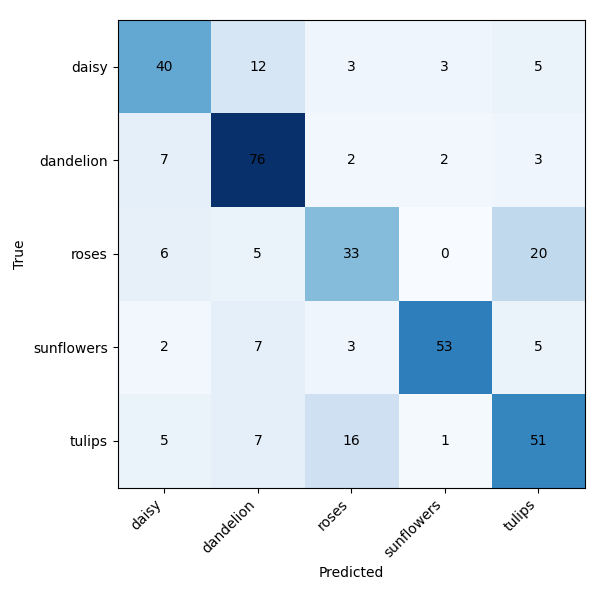
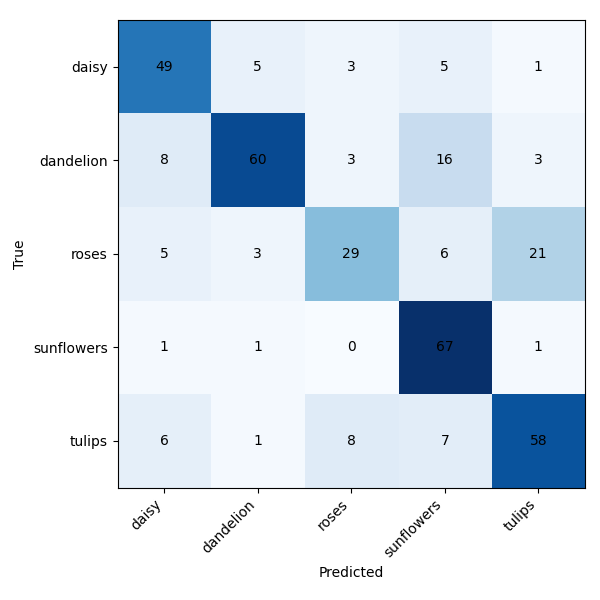
Model/dataset analysis

diff --git a/src/train.py b/src/train.py
@@ -11,7 +11,7 @@ IMG_SIZE: Tuple[int, int] = (180, 180)
 BATCH_SIZE = 32
 TRAIN_DATA_DIR = "data/flower_photos"  # Full training dataset
 TEST_DATA_DIR = "data/flower_photos_test"  # Optional held-put test set
-EPOCHS = 40
+EPOCHS = 50
 
 
 # -----------------------------------------------------------------------
@@ -56,6 +56,8 @@ augmentation = keras.Sequential(
         layers.RandomFlip("horizontal"),
         layers.RandomRotation(0.2),
         layers.RandomZoom(0.2),
+        layers.RandomContrast(0.2),
+        layers.RandomTranslation(height_factor=0.1, width_factor=0.1),
     ]
 )
 
@@ -65,28 +67,29 @@ augmentation = keras.Sequential(
 # -----------------------------------------------------------------------
 model = keras.Sequential(
     [
-        layers.Rescaling(
-            1.0 / 255, input_shape=IMG_SIZE + (3,)
-        ),  # Normalize pixel values to [0, 1]
-        layers.Conv2D(32, 3, activation="relu"),  # Learn patterns/features from images
-        layers.MaxPooling2D(),  # Reduces image size, keeps most important info
-        layers.Conv2D(64, 3, activation="relu"),
+        layers.Rescaling(1.0 / 255, input_shape=IMG_SIZE + (3,)),
+        augmentation,
+        layers.Conv2D(32, 3, padding="same", activation="relu"),
+        layers.BatchNormalization(),
         layers.MaxPooling2D(),
-        layers.Conv2D(128, 3, activation="relu"),
+        layers.Conv2D(64, 3, padding="same", activation="relu"),
+        layers.BatchNormalization(),
         layers.MaxPooling2D(),
-        layers.Flatten(),  # Converts 3D feature to 1D vector
-        layers.Dropout(0.3),
-        layers.Dense(256, activation="relu"),  # Learns higher-level features
-        layers.Dense(
-            num_classes, activation="linear"
-        ),  # Outputs probabilities for each class
+        layers.Conv2D(128, 3, padding="same", activation="relu"),
+        layers.BatchNormalization(),
+        layers.MaxPooling2D(),
+        layers.Flatten(),
+        layers.Dropout(0.5),
+        layers.Dense(256, activation="relu"),
+        layers.Dropout(0.5),
+        layers.Dense(num_classes, activation="linear"),
     ]
 )
 
-# lr = 1e-4
-# optimizer = keras.optimizers.Adam(learning_rate=lr)
+lr = 1e-4
+optimizer = keras.optimizers.Adam(learning_rate=lr)
 model.compile(
-    optimizer="Adam",
+    optimizer=optimizer,
     loss=keras.losses.SparseCategoricalCrossentropy(from_logits=True),
     metrics=["accuracy"],
 )
@@ -98,7 +101,7 @@ stop_early = keras.callbacks.EarlyStopping(monitor="val_loss", patience=10)
 history = model.fit(
     train_ds,
     validation_data=val_ds,
-    epochs=50,
+    epochs=EPOCHS,
     callbacks=[stop_early],
 )
 

diff --git a/analysis/error_analysis.py b/analysis/error_analysis.py
@@ -1,0 +1,55 @@
+import os
+import numpy as np
+import tensorflow as tf
+import matplotlib.pyplot as plt
+from sklearn.metrics import confusion_matrix, classification_report
+
+IMG_SIZE = (180, 180)
+BATCH_SIZE = 32
+MODEL_PATH = "src/models/model.keras"
+CLASS_PATH = "src/models/class_names.txt"
+TEST_DATA_DIR = "data/flower_photos_test"
+
+assert os.path.exists(MODEL_PATH), "Trained model not found"
+assert os.path.exists(CLASS_PATH), "class_names.txt not found"
+assert os.path.exists(TEST_DATA_DIR), "Test data directory not found"
+
+model = tf.keras.models.load_model(MODEL_PATH)
+with open(CLASS_PATH) as f:
+    class_names = [line.strip() for line in f]
+
+# load test set
+test_ds = tf.keras.utils.image_dataset_from_directory(
+    TEST_DATA_DIR, image_size=IMG_SIZE, batch_size=BATCH_SIZE, shuffle=False
+)
+
+# predictions
+all_images = []
+y_true = []
+y_pred = []
+for batch_images, batch_labels in test_ds:
+    preds = model.predict(batch_images)
+    probs = tf.nn.softmax(preds, axis=1)
+    all_images.extend(batch_images)
+    y_true.extend(batch_labels.numpy())
+    y_pred.extend(tf.argmax(probs, axis=1).numpy())
+
+y_true = np.array(y_true)
+y_pred = np.array(y_pred)
+
+cm = confusion_matrix(y_true, y_pred)
+report = classification_report(y_true, y_pred, target_names=class_names, digits=4)
+print("Confusion matrix:\n", cm)
+print("\nClassification report:\n", report)
+
+# Save misclassified image paths for manual inspection
+mis_idx = np.where(y_true != y_pred)[0]
+mis_dir = "misclassified_examples"
+os.makedirs(mis_dir, exist_ok=True)
+for idx in mis_idx:
+    img = tf.keras.utils.array_to_img(all_images[idx])
+    true_label = class_names[y_true[idx]]
+    pred_label = class_names[y_pred[idx]]
+    out_path = os.path.join(mis_dir, f"{idx}_{true_label}_as_{pred_label}.png")
+    img.save(out_path)
+print(f"Saved {len(mis_idx)} misclassified images to {mis_dir}/")

diff --git a/analysis/compute_metrics.py b/analysis/compute_metrics.py
@@ -1,0 +1,20 @@
+import json
+import numpy as np
+
+report = json.load(open("evaluation_results/classification_report.json"))
+cm = np.load("evaluation_results/confusion_matrix.npy")
+class_names = list(report.keys())[:-3]  # remove overall metrics
+
+print("Overall accuracy:", report["accuracy"])
+print("Macro F1:", report["macro avg"]["f1-score"])
+print("Weighted F1:", report["weighted avg"]["f1-score"])
+
+print("\nConfusion Matrix:")
+print(cm)
+
+for idx, name in enumerate(class_names):
+    row = cm[idx]
+    others = [(class_names[j], row[j]) for j in range(len(class_names)) if j != idx]
+    others.sort(key=lambda x: x[1], reverse=True)
+    top = others[0]
+    print(f"{name} most confused with {top[0]} ({top[1]} images)")
